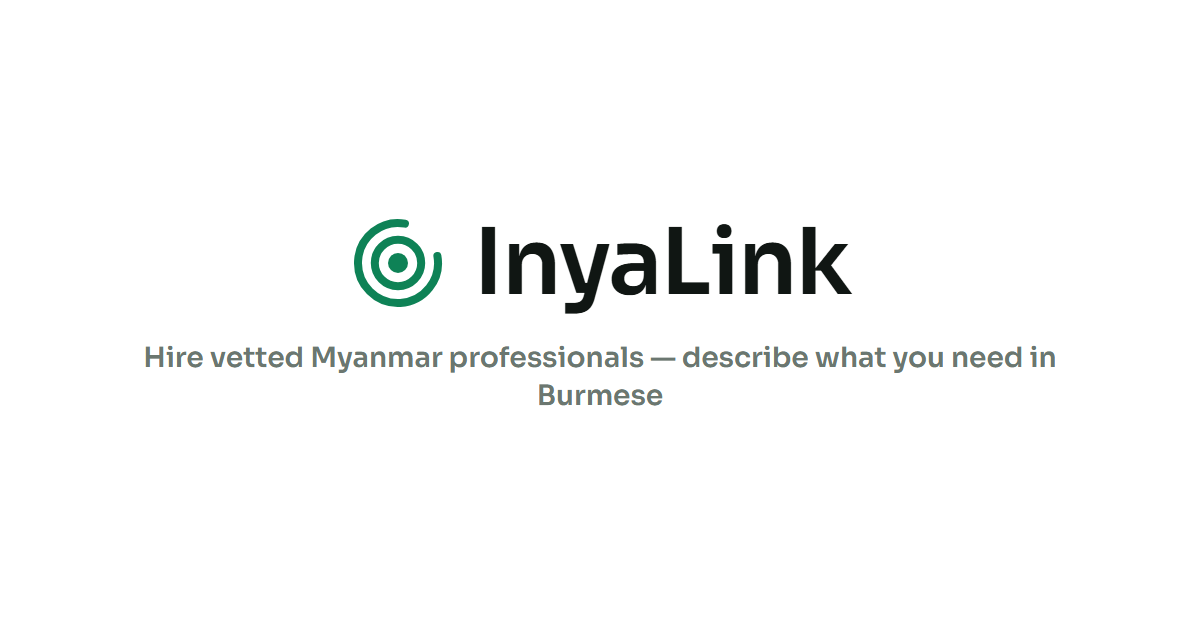
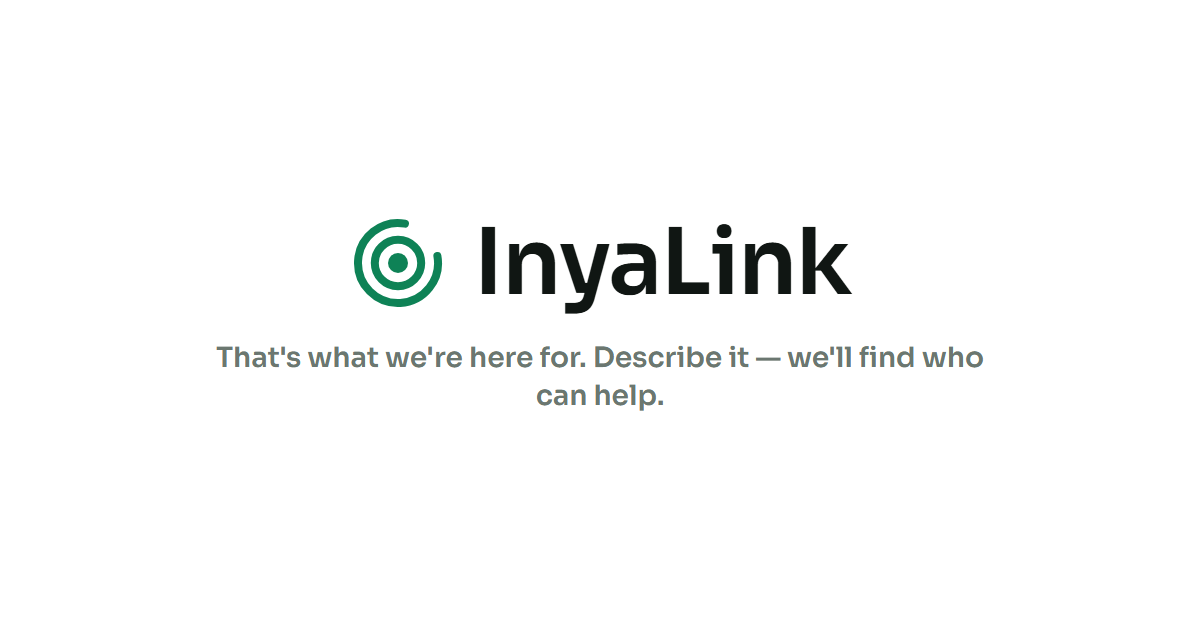
Clarify landing copy, refresh OG image, and fix chat panel scroll.

Changed region(s): [[0.1233, 0.5429, 0.8942, 0.6635]]

diff --git a/apps/web/src/components/FloatingChat.tsx b/apps/web/src/components/FloatingChat.tsx
@@ -181,7 +181,7 @@ export function FloatingChat() {
       : locale;
 
   const showBriefCard = complete && path === 'quick';
-  const showComposer = !complete && !planning;
+  const composerLocked = planning || showBriefCard || briefBusy || matchBusy;
 
   useEffect(() => {
     if (
@@ -536,15 +536,11 @@ export function FloatingChat() {
         role="dialog"
         aria-label={t('chat.title')}
         aria-hidden={!open}
-        className={`fixed bottom-5 right-5 z-50 flex w-[min(400px,calc(100vw-1.5rem))] flex-col overflow-hidden rounded-xl border border-line bg-white shadow-lg transition-[opacity,transform] duration-slow ease-out motion-reduce:transition-none max-sm:right-3 max-sm:bottom-3 ${
+        className={`fixed bottom-5 right-5 z-50 flex h-[min(680px,calc(100dvh-5.5rem))] max-h-[calc(100dvh-5.5rem)] w-[min(400px,calc(100vw-1.5rem))] flex-col overflow-hidden rounded-xl border border-line bg-white shadow-lg transition-[opacity,transform] duration-slow ease-out motion-reduce:transition-none max-sm:right-3 max-sm:bottom-3 ${
           open
             ? 'pointer-events-auto translate-y-0 scale-100 opacity-100'
             : 'pointer-events-none translate-y-3 scale-[0.98] opacity-0'
         }`}
-        style={{
-          height: 'min(680px, calc(100dvh - 5.5rem))',
-          maxHeight: 'calc(100dvh - 5.5rem)',
-        }}
       >
         <header className="flex shrink-0 items-center gap-sm border-b border-line-soft px-xl py-lg">
           <span className="inline-flex h-9 w-9 shrink-0 items-center justify-center rounded-md bg-jade-50 text-jade-600">
@@ -573,7 +569,7 @@ export function FloatingChat() {
           </button>
         </header>
 
-        <div className="relative flex min-h-0 flex-1 flex-col">
+        <div className="relative flex min-h-0 flex-1 flex-col overflow-hidden">
           <ChatHistoryPanel
             open={historyOpen}
             signedIn={signedIn}
@@ -586,47 +582,51 @@ export function FloatingChat() {
 
           <div
             ref={listRef}
-            className="flex min-h-0 flex-1 flex-col justify-end gap-lg overflow-y-auto px-xl py-xl"
+            className="min-h-0 flex-1 overflow-y-auto overscroll-contain px-xl py-xl"
             aria-live="polite"
           >
-            {messages.length === 0 ? (
-              <ChatBubble role="assistant">{t('chat.seed')}</ChatBubble>
-            ) : null}
-            {messages.map((m, i) => (
-              <ChatBubble key={`${m.role}-${i}`} role={m.role}>
-                {m.content}
-              </ChatBubble>
-            ))}
-            {busy ? <ThinkingBubble /> : null}
-            {busy ? <RotatingProgress active /> : null}
-            {planning && roadmapSteps.length > 0 ? (
-              <RoadmapCards
-                steps={roadmapSteps}
-                disclaimer={roadmapDisclaimer}
-              />
-            ) : null}
-            {showBriefCard ? (
-              <BriefSummaryCard
-                draft={briefDraft}
-                goal={goal}
-                busy={briefBusy || matchBusy}
-                error={briefError}
-                onChange={setBriefDraft}
-                onFindMatches={(urgent) => void onFindMatches(urgent)}
-              />
-            ) : null}
-            {matchBusy && !matches ? (
-              <>
-                <ThinkingBubble />
-                <RotatingProgress active />
-              </>
-            ) : null}
-            {matches && matches.length > 0 ? (
-              <MatchAvatarRow matches={matches} />
-            ) : null}
-            {matches && matches.length === 0 && !matchBusy ? (
-              <ChatBubble role="assistant">{t('matches.waitingBody')}</ChatBubble>
-            ) : null}
+            <div className="flex min-h-full flex-col justify-end gap-lg">
+              {messages.length === 0 ? (
+                <ChatBubble role="assistant">{t('chat.seed')}</ChatBubble>
+              ) : null}
+              {messages.map((m, i) => (
+                <ChatBubble key={`${m.role}-${i}`} role={m.role}>
+                  {m.content}
+                </ChatBubble>
+              ))}
+              {busy ? <ThinkingBubble /> : null}
+              {busy ? <RotatingProgress active /> : null}
+              {planning && roadmapSteps.length > 0 ? (
+                <RoadmapCards
+                  steps={roadmapSteps}
+                  disclaimer={roadmapDisclaimer}
+                />
+              ) : null}
+              {showBriefCard ? (
+                <BriefSummaryCard
+                  draft={briefDraft}
+                  goal={goal}
+                  busy={briefBusy || matchBusy}
+                  error={briefError}
+                  onChange={setBriefDraft}
+                  onFindMatches={(urgent) => void onFindMatches(urgent)}
+                />
+              ) : null}
+              {matchBusy && !matches ? (
+                <>
+                  <ThinkingBubble />
+                  <RotatingProgress active />
+                </>
+              ) : null}
+              {matches && matches.length > 0 ? (
+                <MatchAvatarRow matches={matches} />
+              ) : null}
+              {matches && matches.length === 0 && !matchBusy ? (
+                <ChatBubble role="assistant">
+                  {t('matches.waitingBody')}
+                </ChatBubble>
+              ) : null}
+            </div>
           </div>
 
           {notice ? (
@@ -645,11 +645,10 @@ export function FloatingChat() {
             </div>
           ) : null}
 
-          {showComposer ? (
-            <form
-              onSubmit={(e) => void onSend(e)}
-              className="shrink-0 border-t border-line-soft p-lg"
-            >
+          <form
+            onSubmit={(e) => void onSend(e)}
+            className="shrink-0 border-t border-line-soft bg-white p-lg"
+          >
               <label className="sr-only" htmlFor="floating-chat-input">
                 {t('converse.placeholder')}
               </label>
@@ -660,20 +659,26 @@ export function FloatingChat() {
                   value={reply}
                   onChange={(e) => setReply(e.target.value)}
                   placeholder={t('converse.placeholder')}
-                  disabled={busy || !open || historyOpen}
+                  disabled={busy || composerLocked || !open || historyOpen}
                   tabIndex={open && !historyOpen ? 0 : -1}
                   className="tap-target font-myanmar min-w-0 flex-1 rounded-md border border-line px-md text-body-lg leading-burmese outline-none focus:border-jade-400 focus:shadow-focus disabled:opacity-50"
                 />
                 <button
                   type="submit"
-                  disabled={busy || !reply.trim() || !open || historyOpen}
+                  disabled={
+                    busy ||
+                    composerLocked ||
+                    !reply.trim() ||
+                    !open ||
+                    historyOpen
+                  }
                   tabIndex={open && !historyOpen ? 0 : -1}
                   className="tap-target shrink-0 rounded-md bg-jade-600 px-lg text-body-sm font-medium text-white transition-colors duration-fast ease-out hover:bg-jade-400 focus-visible:shadow-focus active:bg-jade-800 disabled:bg-ink-300"
                 >
                   {t('converse.send')}
                 </button>
               </div>
-              {active && !unrelated && !planning ? (
+              {active && !unrelated && !planning && !complete ? (
                 <div className="mt-md flex justify-end">
                   <button
                     type="button"
@@ -686,8 +691,7 @@ export function FloatingChat() {
                   </button>
                 </div>
               ) : null}
-            </form>
-          ) : null}
+          </form>
         </div>
       </div>
     </>

diff --git a/apps/web/index.html b/apps/web/index.html
@@ -3,10 +3,10 @@
   <head>
     <meta charset="UTF-8" />
     <meta name="viewport" content="width=device-width, initial-scale=1.0" />
-    <title>InyaLink — Hire vetted Myanmar professionals — describe what you need in Burmese</title>
+    <title>InyaLink — Not sure what your business needs?</title>
     <meta
       name="description"
-      content="Hire vetted Myanmar professionals — describe what you need in Burmese"
+      content="That's what we're here for. Describe it — we'll find who can help."
     />
     <link rel="icon" href="/favicon.svg" type="image/svg+xml" />
     <link rel="apple-touch-icon" href="/apple-touch-icon.png" />
@@ -15,11 +15,11 @@
     <meta property="og:url" content="https://inyalink.com/" />
     <meta
       property="og:title"
-      content="InyaLink — Hire vetted Myanmar professionals — describe what you need in Burmese"
+      content="InyaLink — Not sure what your business needs?"
     />
     <meta
       property="og:description"
-      content="Hire vetted Myanmar professionals — describe what you need in Burmese"
+      content="That's what we're here for. Describe it — we'll find who can help."
     />
     <meta property="og:image" content="https://inyalink.com/og.png" />
     <meta property="og:image:width" content="1200" />
@@ -27,11 +27,11 @@
     <meta name="twitter:card" content="summary_large_image" />
     <meta
       name="twitter:title"
-      content="InyaLink — Hire vetted Myanmar professionals — describe what you need in Burmese"
+      content="InyaLink — Not sure what your business needs?"
     />
     <meta
       name="twitter:description"
-      content="Hire vetted Myanmar professionals — describe what you need in Burmese"
+      content="That's what we're here for. Describe it — we'll find who can help."
     />
     <meta name="twitter:image" content="https://inyalink.com/og.png" />
     <link rel="preconnect" href="https://fonts.googleapis.com" />

diff --git a/apps/web/src/features/landing/HeroDawn.tsx b/apps/web/src/features/landing/HeroDawn.tsx
@@ -62,9 +62,11 @@ export function HeroDawn({
               className="text-hero animate-fade-up delay-1 mt-lg text-ink-900 md:mt-xl"
             >
               {t('landing.headlineBefore')}
-              <span className="block text-jade-600">
-                {t('landing.headlineAccent')}
-              </span>
+              {t('landing.headlineAccent') ? (
+                <span className="block text-jade-600">
+                  {t('landing.headlineAccent')}
+                </span>
+              ) : null}
               {t('landing.headlineAfter') ? (
                 <span className="block">{t('landing.headlineAfter')}</span>
               ) : null}
